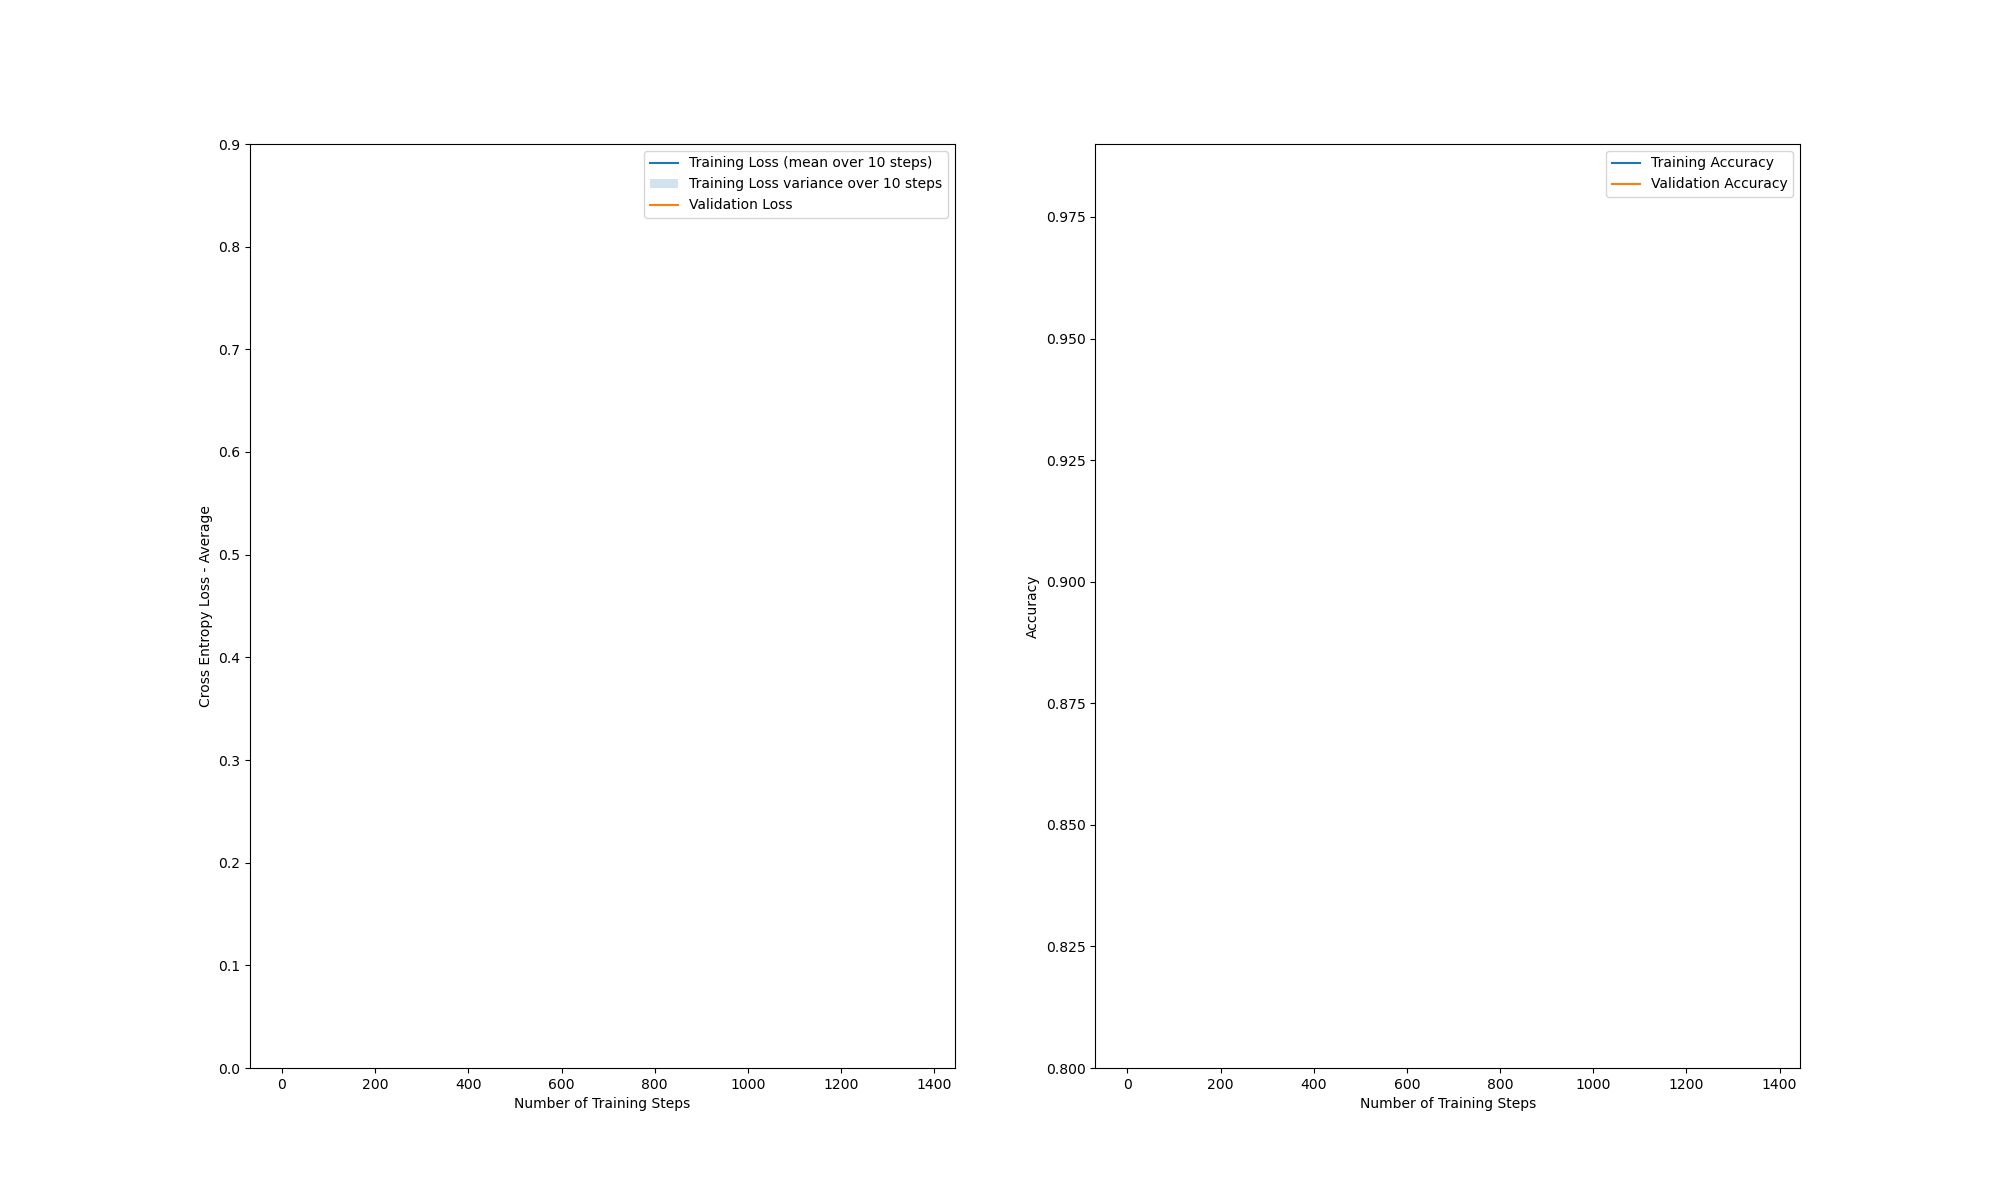
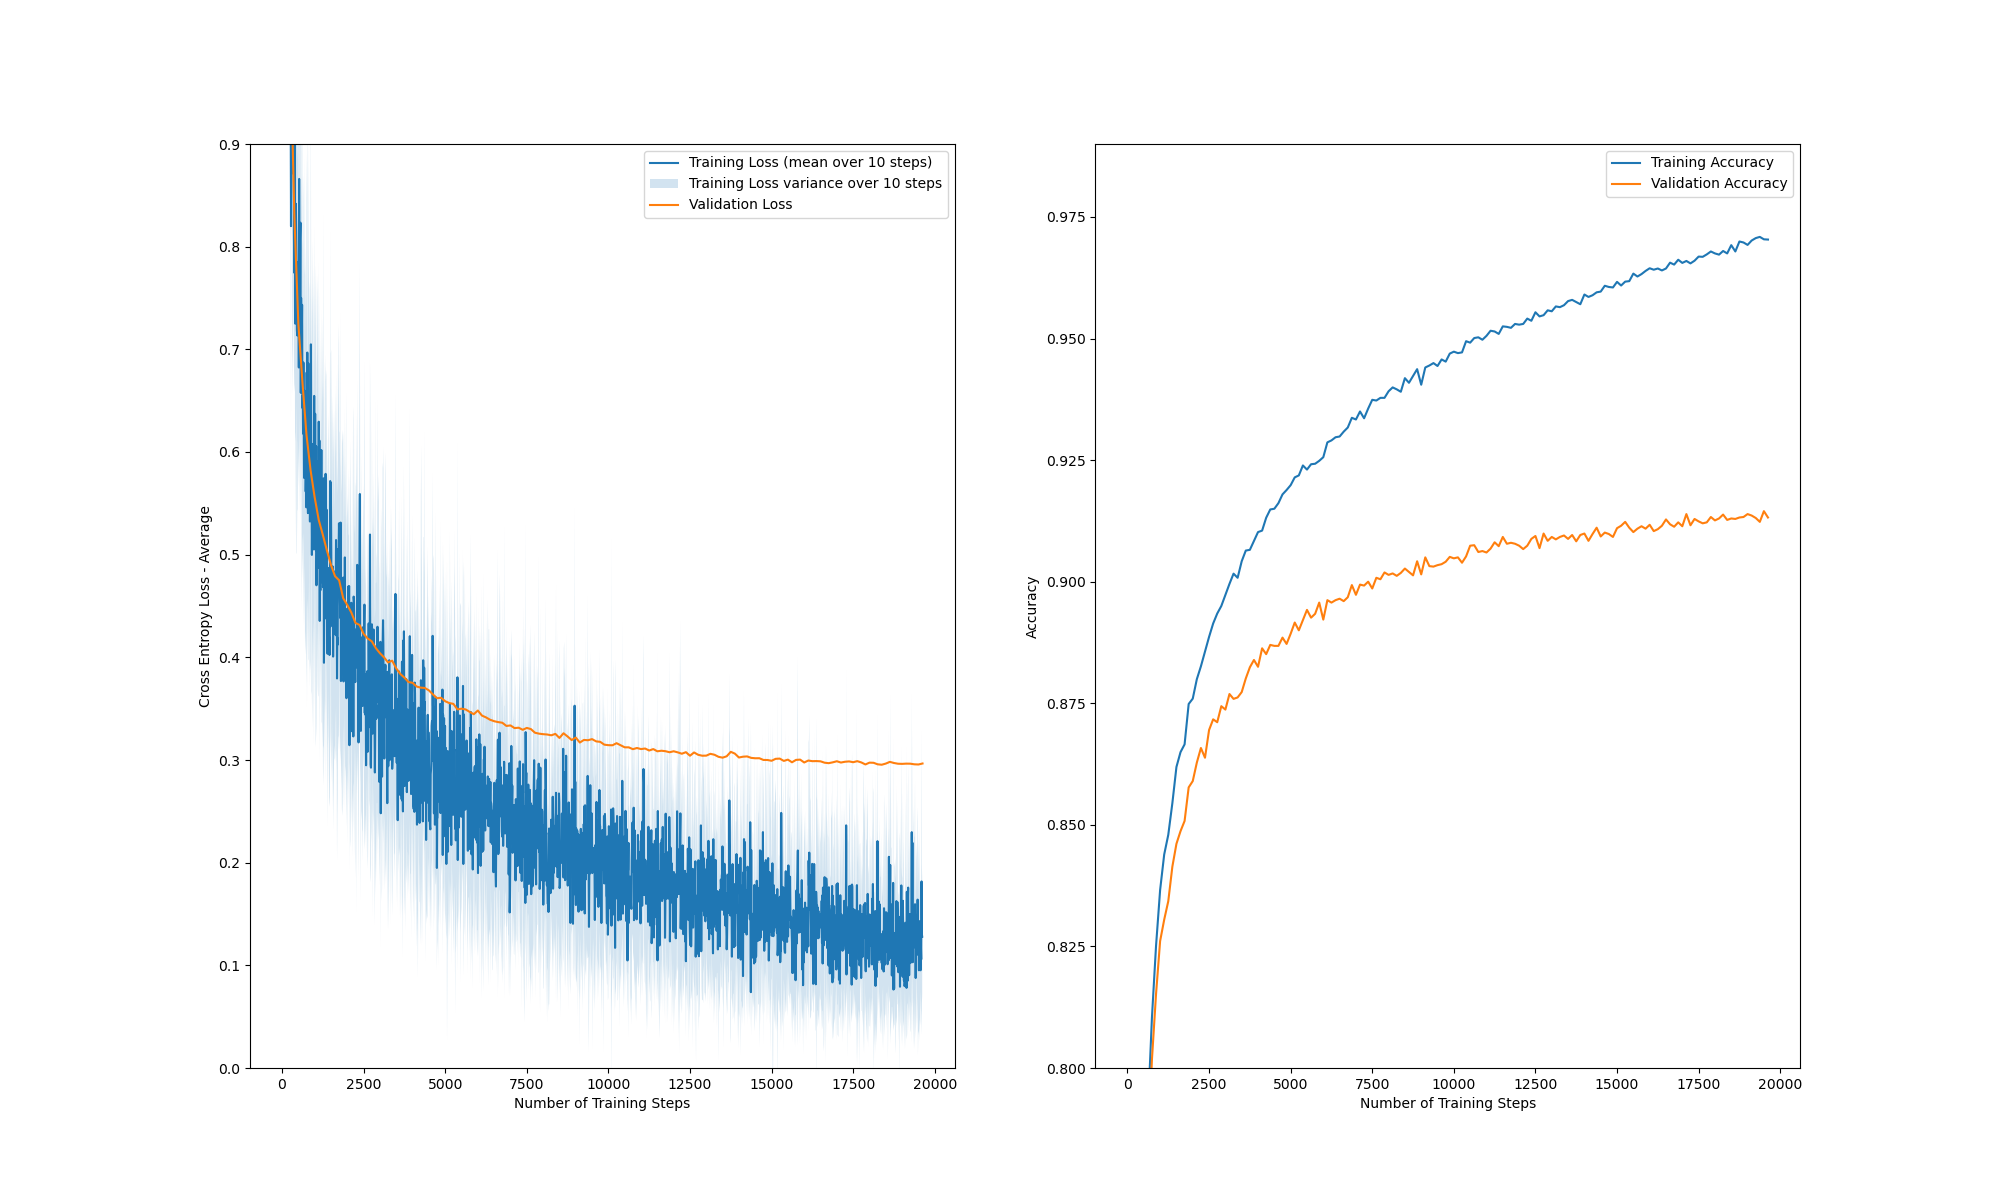
2a works!??!?!

diff --git a/assignment2/task2a.py b/assignment2/task2a.py
@@ -95,7 +95,7 @@ class SoftmaxModel:
 
         self.hidden_layer_output = layer_outputs
         
-        numerator = np.exp(next_layer_output)
+        numerator = np.exp(z)
         y = numerator/np.sum(numerator,axis = 0)
         y = y.T
         # print(np.sum(y,axis=1))
@@ -121,6 +121,7 @@ class SoftmaxModel:
         errors = []
         num_layers = np.size(self.neurons_per_layer)
         errors.append(outputs-targets)
+        batch_size = X.shape[0]
 
         self.grads[0] = self.hidden_layer_output[num_layers-1]@errors[0]
         self.grads[0] = self.grads[0]
@@ -135,7 +136,7 @@ class SoftmaxModel:
             new_grad = self.hidden_layer_output[(num_layers-1)-i]@errors[i]
             self.grads[i] = new_grad
 
-        self.grads = np.flip(self.grads)
+        self.grads = np.flip(self.grads)/batch_size
         
         for grad, w in zip(self.grads, self.ws):
             assert grad.shape == w.shape,\
